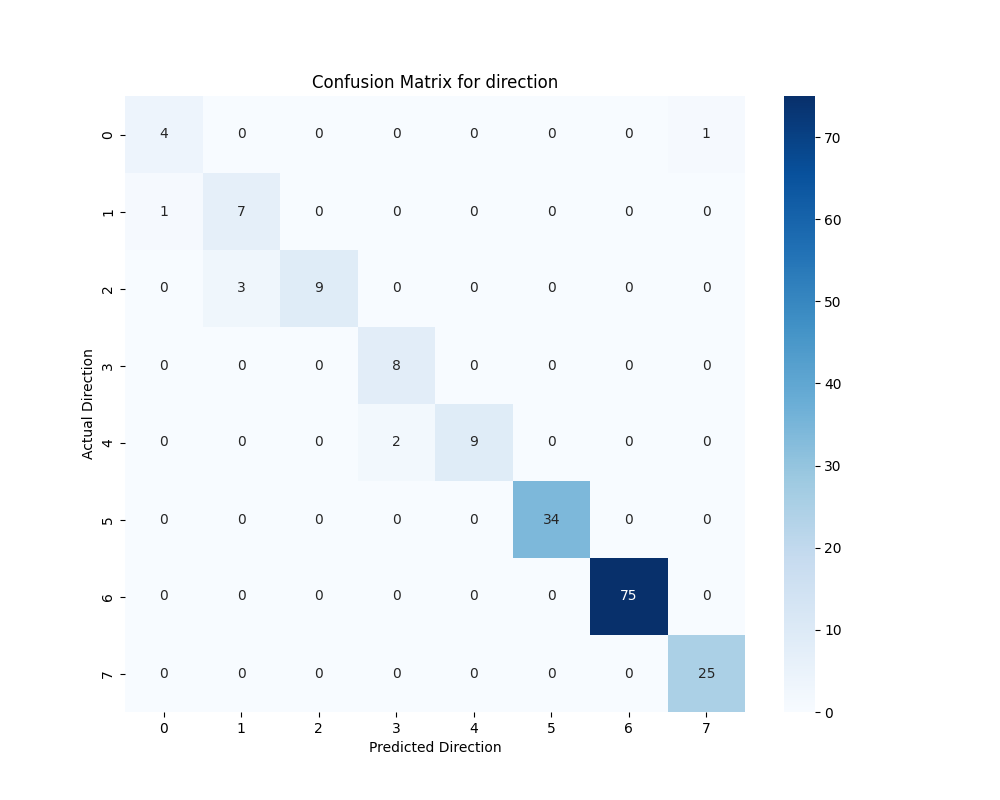
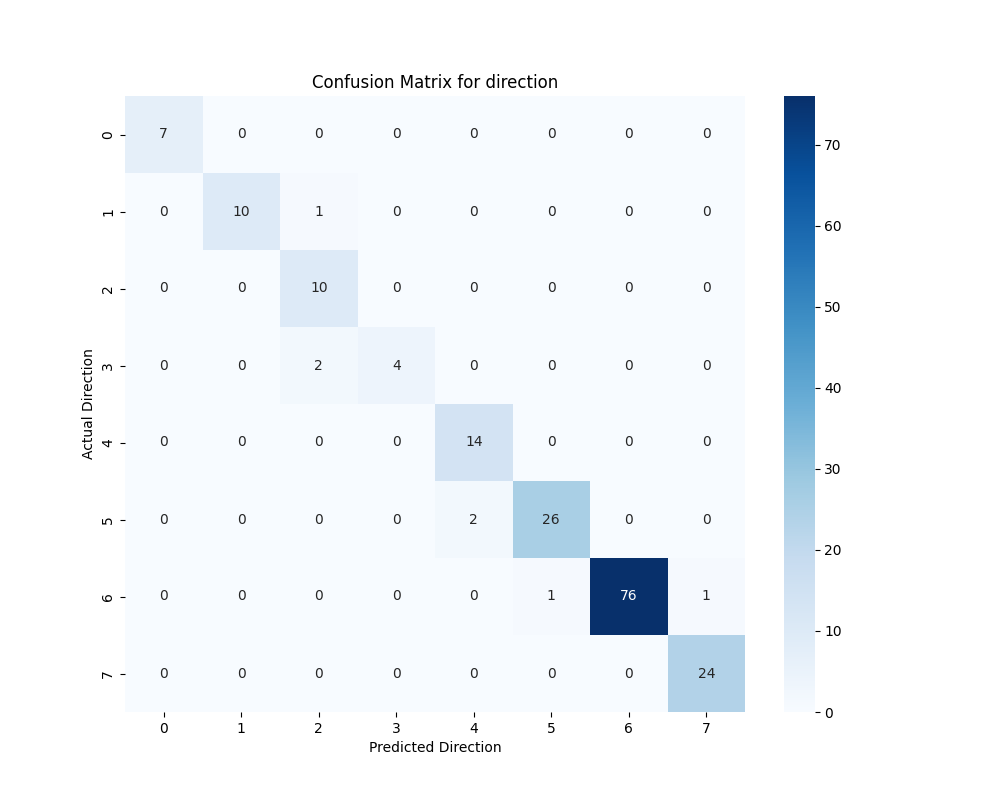
1. change

diff --git a/wild_fire_client/wild_fire_ml.py b/wild_fire_client/wild_fire_ml.py
@@ -74,6 +74,24 @@ def train_model(X, y, model_name, model_class, param_grid, is_classifier=False):
     grid_search.fit(X_train_scaled, y_train)
     best_model = grid_search.best_estimator_
     
+    # --- Evaluate and Print Metrics ---
+    y_pred = best_model.predict(X_test_scaled)
+    metrics = {}
+    print(f"\n--- Evaluation Metrics for {model_name} ---")
+    if is_classifier:
+        f1 = f1_score(y_test, y_pred, average='weighted')
+        metrics = {'f1_weighted': f1}
+        print(f"  F1-Score: {f1:.4f}")
+        plot_confusion_matrix(y_test, y_pred, model_name)
+        print(f"  Confusion Matrix saved to {model_name}_confusion_matrix.png")
+    else:
+        mae = mean_absolute_error(y_test, y_pred)
+        r2 = r2_score(y_test, y_pred)
+        metrics = {'mae': mae, 'r2': r2}
+        print(f"  Mean Absolute Error: {mae:.4f}")
+        print(f"  R-squared : {r2:.4f}")
+    print("-" * (26 + len(model_name)))
+
     joblib.dump(best_model, os.path.join(BASE_DIR, f'{model_name}_model.joblib'))
     joblib.dump(scaler, os.path.join(BASE_DIR, f'{model_name}_scaler.joblib'))
     joblib.dump(imputer, os.path.join(BASE_DIR, f'{model_name}_imputer.joblib'))
@@ -82,7 +100,8 @@ def train_model(X, y, model_name, model_class, param_grid, is_classifier=False):
     print(f"✅ {model_name} artifacts saved.")
     
     plot_feature_importance(best_model, X.columns, model_name)
-    return best_model, X.columns
+    return best_model, X.columns, metrics
+
 
 # --- Main Execution ---
 def main(file_path):
@@ -94,12 +113,14 @@ def main(file_path):
     regressor_params = {'n_estimators': [100, 200], 'learning_rate': [0.05, 0.1], 'max_depth': [5, 7]}
     classifier_params = {'n_estimators': [100, 200], 'learning_rate': [0.05, 0.1], 'max_depth': [5, 7], 'objective': ['multi:softmax'], 'num_class': [8], 'eval_metric': ['mlogloss']}
 
+    all_metrics = []
+
     # --- 1. Area Model (Feature Selection Pass) ---
     print("\n" + "="*50 + "\nSTEP 1: AREA MODEL FEATURE SELECTION\n" + "="*50)
     df['fire_area_log'] = np.log1p(df[TARGET_AREA])
     X_full, y_area = prepare_data(df, 'fire_area_log')
-    # We train a standard regressor just to find the most important features
-    initial_area_model, initial_columns = train_model(X_full, y_area, 'area_log_initial', xgb.XGBRegressor(random_state=42), regressor_params)
+    initial_area_model, initial_columns, metrics = train_model(X_full, y_area, 'area_log_initial', xgb.XGBRegressor(random_state=42), regressor_params)
+    all_metrics.append({'model_name': 'area_log_initial', **metrics})
     
     importances = initial_area_model.feature_importances_
     top_indices = np.argsort(importances)[-TOP_N_FEATURES:]
@@ -111,27 +132,58 @@ def main(file_path):
     print("\n" + "="*50 + "\nSTEP 2: AREA QUANTILE MODEL TRAINING\n" + "="*50)
     quantiles = {'low': 0.1, 'median': 0.5, 'high': 0.9}
     for name, alpha in quantiles.items():
-        model = xgb.XGBRegressor(
-            objective='reg:quantileerror',
-            quantile_alpha=alpha,
-            random_state=42
-        )
-        train_model(X_top, y_top, f'area_quantile_{name}', model, regressor_params)
+        model_name = f'area_quantile_{name}'
+        model = xgb.XGBRegressor(objective='reg:quantileerror', quantile_alpha=alpha, random_state=42)
+        _, _, metrics = train_model(X_top, y_top, model_name, model, regressor_params)
+        all_metrics.append({'model_name': model_name, **metrics})
 
     # --- 3. FWI, Direction, Distance Models ---
     print("\n" + "="*50 + "\nSTEP 3: FWI, DIRECTION, DISTANCE MODELS\n" + "="*50)
     df_fwi = df.dropna(subset=[TARGET_FWI]).copy()
     X_fwi, y_fwi = prepare_data(df_fwi, TARGET_FWI)
-    train_model(X_fwi, y_fwi, 'fwi', xgb.XGBRegressor(random_state=42), regressor_params)
+    _, _, metrics = train_model(X_fwi, y_fwi, 'fwi', xgb.XGBRegressor(random_state=42), regressor_params)
+    all_metrics.append({'model_name': 'fwi', **metrics})
 
     df_dir = df.dropna(subset=['WD10M_0h']).copy()
     df_dir[TARGET_DIRECTION] = df_dir['WD10M_0h'].apply(lambda d: int(round(d / 45.)) % 8)
     X_dir, y_dir = prepare_data(df_dir, TARGET_DIRECTION)
-    train_model(X_dir, y_dir, 'direction', xgb.XGBClassifier(random_state=42), classifier_params, is_classifier=True)
+    _, _, metrics = train_model(X_dir, y_dir, 'direction', xgb.XGBClassifier(random_state=42), classifier_params, is_classifier=True)
+    all_metrics.append({'model_name': 'direction', **metrics})
 
     df[TARGET_DISTANCE] = np.sqrt(df[TARGET_AREA])
     X_dist, y_dist = prepare_data(df, TARGET_DISTANCE)
-    train_model(X_dist, y_dist, 'distance', xgb.XGBRegressor(random_state=42), regressor_params)
+    _, _, metrics = train_model(X_dist, y_dist, 'distance', xgb.XGBRegressor(random_state=42), regressor_params)
+    all_metrics.append({'model_name': 'distance', **metrics})
+
+    # --- 4. Performance Comparison ---
+    print("\n" + "="*50 + "\nSTEP 4: MODEL PERFORMANCE COMPARISON\n" + "="*50)
+    df_metrics = pd.DataFrame(all_metrics).set_index('model_name')
+    print(df_metrics.to_string(float_format="%.4f"))
+    df_metrics.to_csv(os.path.join(BASE_DIR, "model_performance_summary.csv"))
+    print("\nPerformance summary saved to model_performance_summary.csv")
+
+    # Visualize Regression Metrics
+    df_regr = df_metrics[df_metrics['r2'].notna()].sort_values('r2', ascending=False)
+    
+    fig, (ax1, ax2) = plt.subplots(2, 1, figsize=(12, 12)) # Increased figure height
+    
+    # R-squared Plot (Unchanged)
+    sns.barplot(x=df_regr.index, y=df_regr['r2'], ax=ax1, palette='viridis')
+    ax1.set_title('Model Comparison: R-squared (R²)', fontsize=16)
+    ax1.set_ylabel('R² Score')
+    ax1.tick_params(axis='x', rotation=45)
+
+    # MAE Plot (with Log Scale)
+    df_regr_mae = df_regr.sort_values('mae', ascending=False) # Sort by MAE for this plot
+    sns.barplot(x=df_regr_mae.index, y=df_regr_mae['mae'], ax=ax2, palette='plasma')
+    ax2.set_title('Model Comparison: Mean Absolute Error (MAE) - Log Scale', fontsize=16)
+    ax2.set_ylabel('MAE Score (Log Scale)')
+    ax2.set_yscale('log') # Apply logarithmic scale
+    ax2.tick_params(axis='x', rotation=45)
+    
+    plt.tight_layout()
+    plt.savefig(os.path.join(BASE_DIR, "model_performance_comparison.png"))
+    print("Performance comparison plot saved to model_performance_comparison.png")
 
 if __name__ == '__main__':
     parser = argparse.ArgumentParser(description="Wildfire ML Pipeline with Quantile Regression")

diff --git a/wild_fire_client/visualize_top_features.py b/wild_fire_client/visualize_top_features.py
@@ -1,0 +1,70 @@
+
+import pandas as pd
+import numpy as np
+import matplotlib.pyplot as plt
+import seaborn as sns
+import os
+
+# --- Constants ---
+BASE_DIR = os.path.dirname(os.path.abspath(__file__))
+DATA_FILE = os.path.join(BASE_DIR, "final_cleaned_for_modeling.csv")
+DISTRIBUTION_PLOT_FILE = os.path.join(BASE_DIR, "eda_analysis_plots/top20_feature_distributions.png")
+CORRELATION_PLOT_FILE = os.path.join(BASE_DIR, "eda_analysis_plots/top20_feature_correlation_heatmap.png")
+
+# 최종 20개 피처 목록
+TOP_20_FEATURES = [
+    'potential_spread_index', 'fuel_combo', 'dry_windy_combo', 'FWI_0h', 'DC_0h',
+    'BUI_0h', 'ws10m_max_past_24h', 'consecutive_dry_days_start', 'ISI_0h', 'DMC_0h',
+    'slope_max', 't2m_max_past_24h', 'rh2m_min_past_24h', 'elevation_std',
+    'dry_days_90d_start', 'FFMC_0h', 'WS10M_0h', 'slope_mean', 'ndvi_before',
+    'treecover_pre_fire_5x5'
+]
+
+def main():
+    # --- 데이터 로드 ---
+    try:
+        df = pd.read_csv(DATA_FILE, encoding="utf-8")
+    except FileNotFoundError:
+        print(f"Error: 데이터 파일을 찾을 수 없습니다. -> '{DATA_FILE}'")
+        return
+
+    # 최종 20개 피처만 선택
+    df_top20 = df[TOP_20_FEATURES].copy()
+    print("데이터 로드 및 최종 20개 피처 선택 완료.")
+
+    # --- 1. 피처 분포 시각화 (Histograms) ---
+    print("피처 분포 히스토그램 생성 중...")
+    plt.style.use('seaborn-v0_8-whitegrid')
+    fig, axes = plt.subplots(5, 4, figsize=(20, 22))
+    fig.suptitle('Distribution of Top 20 Features', fontsize=24, y=1.02)
+    axes = axes.flatten()
+
+    for i, col in enumerate(df_top20.columns):
+        sns.histplot(df_top20[col], kde=True, ax=axes[i], bins=30)
+        axes[i].set_title(col, fontsize=14)
+        axes[i].set_xlabel('')
+        axes[i].set_ylabel('')
+
+    plt.tight_layout()
+    plt.savefig(DISTRIBUTION_PLOT_FILE)
+    plt.close()
+    print(f"피처 분포 그래프 저장 완료: {DISTRIBUTION_PLOT_FILE}")
+
+    # --- 2. 상관관계 분석 (Correlation Heatmap) ---
+    print("상관관계 히트맵 생성 중...")
+    correlation_matrix = df_top20.corr()
+
+    plt.figure(figsize=(18, 15))
+    sns.heatmap(correlation_matrix, annot=True, cmap='coolwarm', fmt='.2f', linewidths=.5)
+    plt.title('Correlation Matrix of Top 20 Features', fontsize=20)
+    plt.xticks(rotation=45, ha='right')
+    plt.yticks(rotation=0)
+    plt.tight_layout()
+    plt.savefig(CORRELATION_PLOT_FILE)
+    plt.close()
+    print(f"상관관계 히트맵 저장 완료: {CORRELATION_PLOT_FILE}")
+
+if __name__ == '__main__':
+    # 시각화 결과 저장 디렉토리 생성
+    os.makedirs(os.path.join(BASE_DIR, "eda_analysis_plots"), exist_ok=True)
+    main()

diff --git a/wild_fire_client/auto_collection/feature_engineering.py b/wild_fire_client/auto_collection/feature_engineering.py
@@ -111,6 +111,11 @@ def feature_engineer_from_json(input_json):
     df['is_autumn'] = df['fire_month'].isin([9, 10, 11]).astype(int)
 
     # --- Calculate FWI ---
+    # --- DEBUG: Print FWI input values ---
+    print("--- FWI Calculation Inputs ---", file=sys.stderr)
+    print(df[['T2M_0h', 'RH2M_0h', 'WS10M_0h', 'PRECTOTCORR_0h', 'fire_month']].iloc[0], file=sys.stderr)
+    print("------------------------------", file=sys.stderr)
+    
     fwi_results = df.apply(lambda row: calculate_fwi_components(row, hour=0), axis=1)
     df = pd.concat([df, pd.DataFrame(fwi_results.tolist()).add_suffix('_0h')], axis=1)
 
